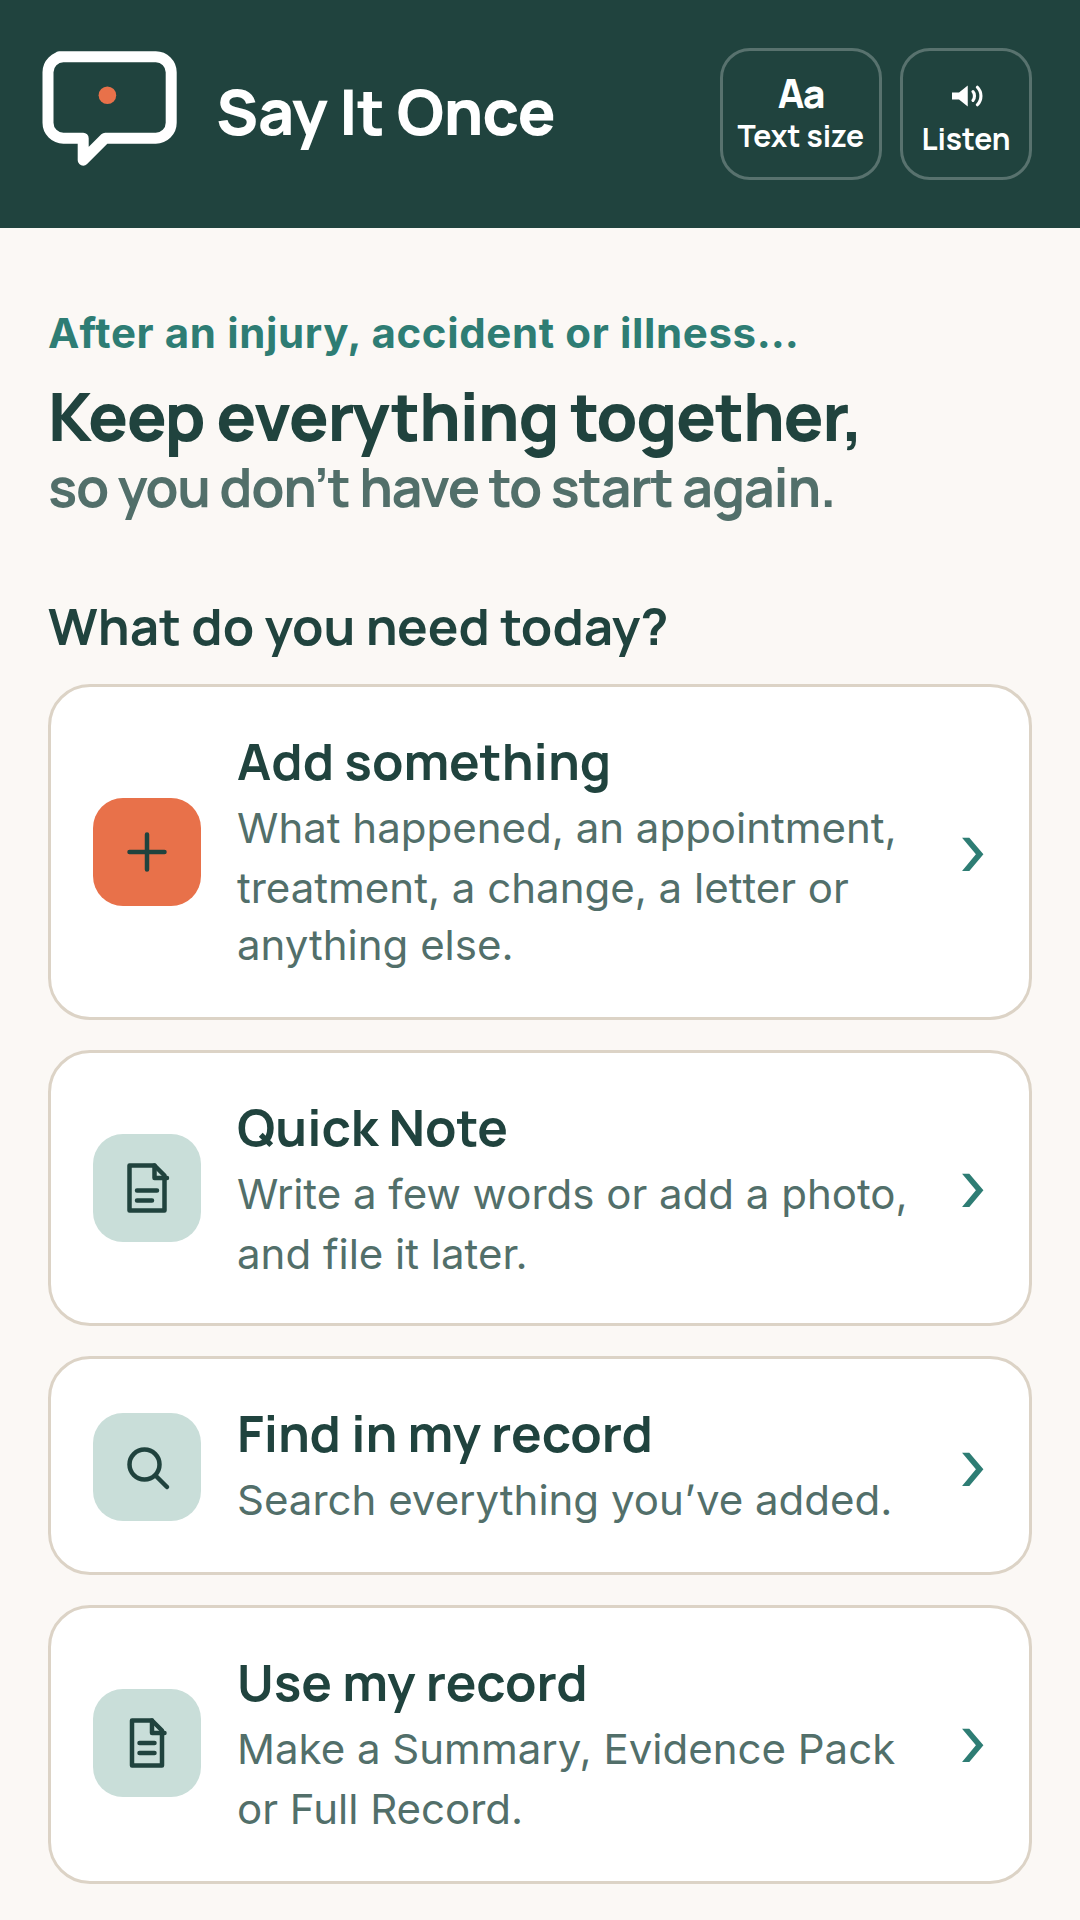
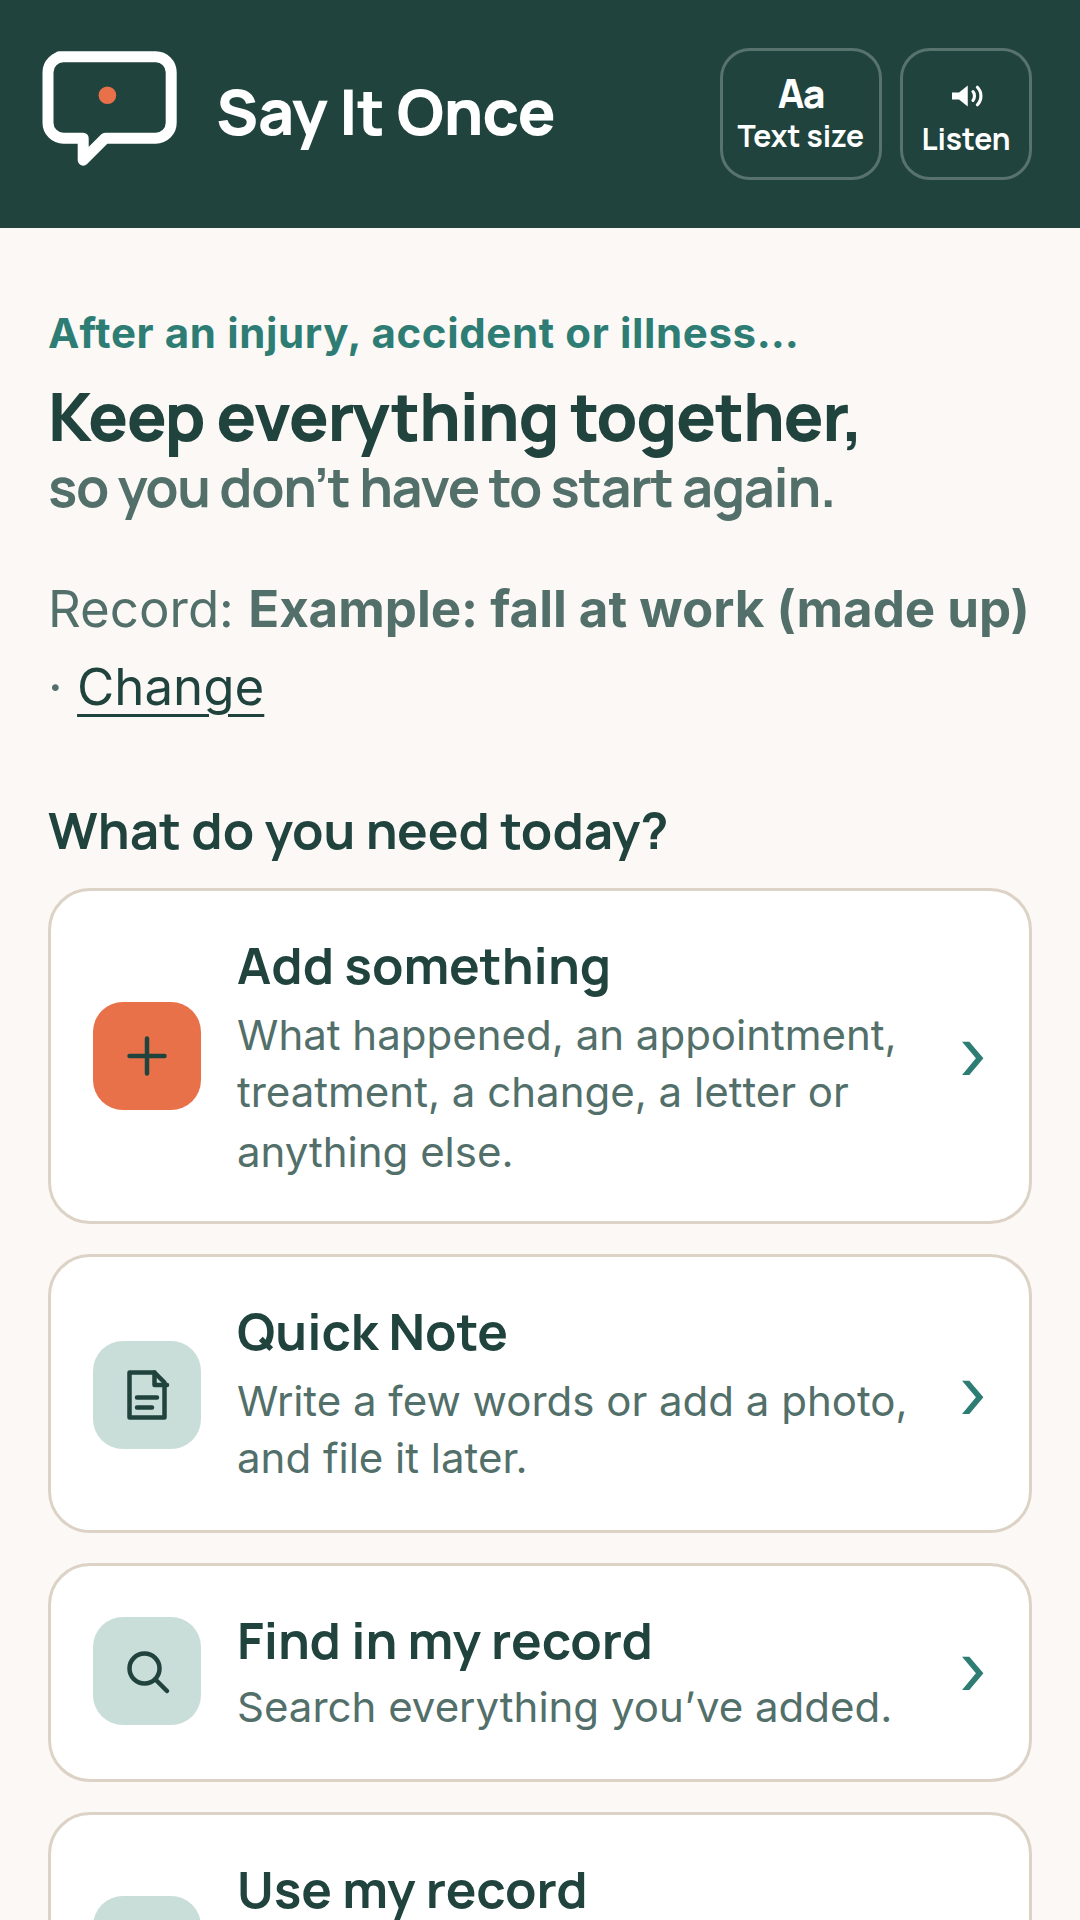
Home: 'Look back at your record', record line; fold-outs look tappable
- Home's fold-out is renamed "Look back at your record" ("See and change
  what you've already added"), so it's clearly for going back to entries,
  while Add something is for new ones.
- Home always shows "Record: <name> · Change" under the title, so people
  know from the start there can be more than one record, and which one
  they're adding to. My records suggests renaming "My record".
- Every fold-out (details.more) is now a bordered box with a chevron that
  turns over when open, like Home's, so none looks like a heading. The
  chevron is drawn with borders so it's centred on every phone.

Walkthroughs, decision, e2e and the Play Store home screenshot updated.

Claude-Session: https://claude.ai/code/session_01Y9KWFDKGho3JHK3usaFHZm

diff --git a/src/screens/Home.tsx b/src/screens/Home.tsx
@@ -12,7 +12,7 @@ import { AppointmentDialog } from '../features/track/AppointmentDialog';
 import { navigate, RouteLink, type Route } from '../router';
 import { AddToPhonePrompt } from '../shell/AddToPhonePrompt';
 import { BackupReminder } from '../shell/BackupReminder';
-import { useItems } from '../store/hooks';
+import { useItems, useRecordName } from '../store/hooks';
 
 // The eight kinds of thing you can add (docs/spec.md, "Add something").
 const addChoices: {
@@ -43,6 +43,7 @@ const utilityLinks: { to: Route; label: string; icon: IconName }[] = [
 export function Home() {
   const notes = useItems('quickNote');
   const appointments = useItems('appointment');
+  const recordName = useRecordName();
   const heading = useRef<HTMLHeadingElement>(null);
   // A filed note leaves Home, taking its File button with it, so focus goes
   // to the page heading rather than being lost.
@@ -67,6 +68,13 @@ export function Home() {
       <h1 ref={heading} tabIndex={-1} className="home-title">
         Keep everything together, <span className="home-title-soft">so you don&rsquo;t have to start again.</span>
       </h1>
+      {/* Always on Home, so people know from the start that they can keep
+          more than one record, and can see which one they're adding to. */}
+      {recordName && (
+        <p className="record-tag home-record-tag">
+          Record: <strong>{recordName}</strong> · <RouteLink to="records">Change</RouteLink>
+        </p>
+      )}
 
       <h2 id="today" className="home-section-title">
         What do you need today?
@@ -150,8 +158,8 @@ export function Home() {
       {/* Folded away, as in the original app, so Home isn't overwhelming. */}
       <details className="home-more">
         <summary>
-          <span className="home-more-title">Your record</span>
-          <span className="home-more-detail">What happened, how it affects you, keeping track, and your notes</span>
+          <span className="home-more-title">Look back at your record</span>
+          <span className="home-more-detail">See and change what you&rsquo;ve already added</span>
         </summary>
         <div className="record-cards">
           <TaskLink to="what" icon="story" title="What happened" detail="The event, in your own words." />

diff --git a/src/styles.css b/src/styles.css
@@ -595,6 +595,10 @@ h3 {
   color: var(--colour-text-muted);
 }
 
+.home-record-tag {
+  margin: var(--space-2) 0 var(--space-3);
+}
+
 .discard-prompt {
   margin-top: var(--space-4);
 }
@@ -952,16 +956,8 @@ h3 {
 }
 
 .home-more > summary::after {
-  content: '⌄';
   grid-column: 2;
   grid-row: 1 / span 2;
-  color: var(--colour-emerald);
-  font-size: 1.25rem;
-  line-height: 1;
-}
-
-.home-more[open] > summary::after {
-  transform: rotate(180deg);
 }
 
 .home-more-title {
@@ -1039,18 +1035,55 @@ h3 {
 }
 
 details.more {
-  border-top: var(--border-thin) solid var(--colour-line);
   margin: var(--space-3) 0;
-  padding-top: var(--space-2);
 }
 
+/* Every fold-out looks like Home's "Look back at your record" box: a
+   bordered box with an arrow, so it's clearly something to tap and never
+   mistaken for a heading. */
 details.more > summary {
-  cursor: pointer;
-  font-weight: 700;
-  min-height: 2.75rem;
   display: flex;
   align-items: center;
-  color: var(--colour-link);
+  justify-content: space-between;
+  gap: var(--space-2);
+  min-height: 2.75rem;
+  padding: 0.625rem 0.875rem;
+  border: var(--border-thin) solid var(--colour-line);
+  border-radius: var(--radius-card);
+  background: var(--colour-surface);
+  color: var(--colour-navy);
+  font-family: var(--font-heading);
+  font-weight: 700;
+  cursor: pointer;
+  list-style: none;
+}
+
+details.more > summary::-webkit-details-marker {
+  display: none;
+}
+
+/* The arrow on every fold-out: a chevron drawn with two borders, so it's
+   centred in the box on every phone (a text arrow sits low). */
+.home-more > summary::after,
+details.more > summary::after {
+  content: '';
+  flex: none;
+  width: 0.5rem;
+  height: 0.5rem;
+  margin: -0.25rem 0.25rem 0;
+  border-right: 0.125rem solid var(--colour-emerald);
+  border-bottom: 0.125rem solid var(--colour-emerald);
+  transform: rotate(45deg);
+}
+
+.home-more[open] > summary::after,
+details.more[open] > summary::after {
+  margin-top: 0.25rem;
+  transform: rotate(-135deg);
+}
+
+details.more[open] > summary {
+  margin-bottom: var(--space-2);
 }
 
 .quiet-status {

diff --git a/e2e/stage3a.spec.ts b/e2e/stage3a.spec.ts
@@ -9,10 +9,10 @@ async function openApp(page: Page, hash = '#home') {
   await expect(page.getByRole('heading', { level: 1 })).toBeVisible();
 }
 
-/** Opens a screen from Home's folded-away "Your record" section, as a person would. */
+/** Opens a screen from Home's folded-away "Look back at your record" section, as a person would. */
 async function openFromHome(page: Page, name: 'My records' | 'Quick Notes') {
   await page.getByRole('link', { name: /Say It Once/ }).click();
-  await page.getByText('Your record', { exact: true }).click();
+  await page.getByText('Look back at your record', { exact: true }).click();
   await page.getByRole('link', { name, exact: true }).click();
   await expect(page.getByRole('heading', { level: 1, name })).toBeFocused();
 }
@@ -221,5 +221,14 @@ test('a Quick Note explains how to find the keyboard microphone, and the help pa
       .or(dialog.getByRole('heading', { name: 'iPhone or iPad' }))
       .first(),
   ).toBeVisible();
+  await expectNoAxeViolations(page);
+});
+
+test('Home says which record is shown, and Change opens My records with a tip to rename it', async ({ page }) => {
+  await openApp(page);
+  await expect(page.getByText('Record: My record · Change')).toBeVisible();
+  await page.getByRole('link', { name: 'Change', exact: true }).click();
+  await expect(page.getByRole('heading', { level: 1, name: 'My records' })).toBeFocused();
+  await expect(page.getByText(/give it a name you’ll recognise/)).toBeVisible();
   await expectNoAxeViolations(page);
 });

diff --git a/src/screens/Records.tsx b/src/screens/Records.tsx
@@ -31,6 +31,12 @@ export function Records() {
         Keep a separate record for each injury or illness, so each one stays clear. Everything you add goes into the
         record being shown.
       </p>
+      {records?.length === 1 && records[0]?.data.name === 'My record' && (
+        <p className="field-hint">
+          Tip: give it a name you&rsquo;ll recognise, like &ldquo;Car accident, March 2026&rdquo;. The name goes on
+          anything you share.
+        </p>
+      )}
       <p role="status" className="quiet-status">
         {message}
       </p>

diff --git a/docs/look-walkthrough.md b/docs/look-walkthrough.md
@@ -17,8 +17,14 @@ Open the Deploy Preview on your iPhone, and on a computer if you can.
 3. [ ] Under **What do you need today?** are cards for **Add something**
    (with an orange +), **Quick Note**, **Find in my record** and
    **Use my record**, then a peach **Find support** card.
-4. [ ] **Your record** is folded away. Tap it to see cards for What
-   happened, How it affects me and Keep track; tap again to fold it.
+4. [ ] Under the title is **Record: My record · Change**; **Change** opens
+   My records. **Look back at your record** is folded away. Tap it to see
+   cards for What happened, How it affects me, Keep track, Quick Notes and
+   My records; tap again to fold it.
+4a. [ ] Every fold-out in the app (for example **Treatment and what came
+   next** on What happened, and **More detail (optional)** in the dialogs)
+   is a white box with an arrow on the right, which turns over when open.
+   None looks like a plain heading.
    There's no "Only on this phone" box on Home any more (it's still on
    Privacy & backup).
 5. [ ] Near the bottom is a box with How to use, Questions and answers, Add

diff --git a/CLAUDE.md b/CLAUDE.md
@@ -269,3 +269,12 @@ Done when:
   outline) but keep a 44-pixel tap area for WCAG 2.2 target size and
   shaky hands; their small labels stay, because an icon alone is hard to
   work out.
+- 27 September 2026, Home and fold-outs: Home's fold-out is "Look back at
+  your record" ("See and change what you've already added"), so it's clear
+  it's for going back to entries, while Add something is for new ones.
+  Home always shows "Record: <name> · Change" under the title, so people
+  know from the start there can be more than one record and which one
+  they're adding to; My records suggests renaming "My record". Every
+  fold-out (`details.more`) is a bordered box with an arrow, like Home's,
+  so it's never mistaken for a heading. "Can't find the microphone?" stays
+  a small underlined help line.

diff --git a/docs/stage-3b-walkthrough.md b/docs/stage-3b-walkthrough.md
@@ -6,7 +6,7 @@ Tick each box as you go.
 
 ## How it affects me
 
-1. [ ] Open **How it affects me** (footer, or Home → Your record). Tap
+1. [ ] Open **How it affects me** (Home → Look back at your record). Tap
    **Choose an area that’s changed**, pick an area, choose how it is now,
    write a sentence and **Save**.
 2. [ ] Tap **Something has changed**, pick the same area, change the words
